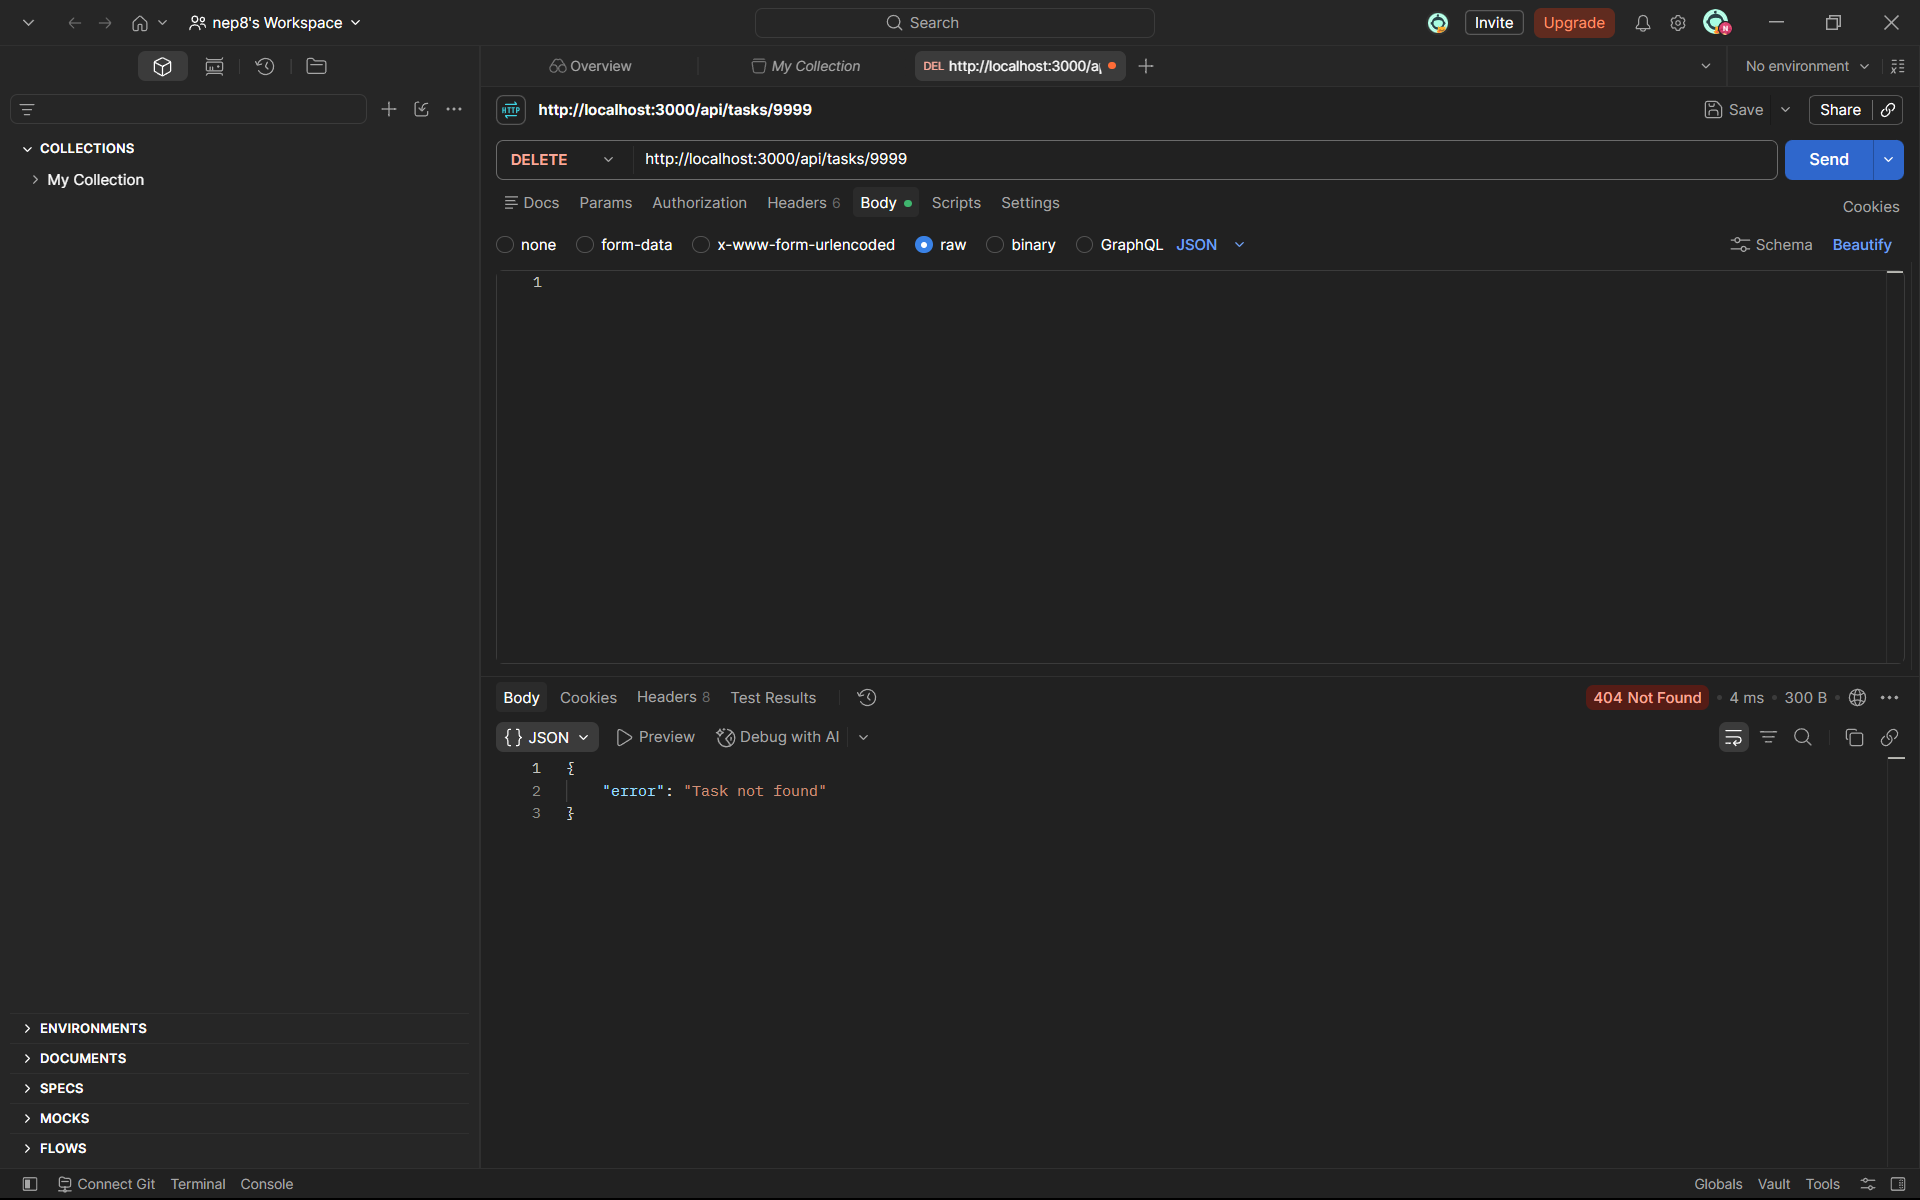
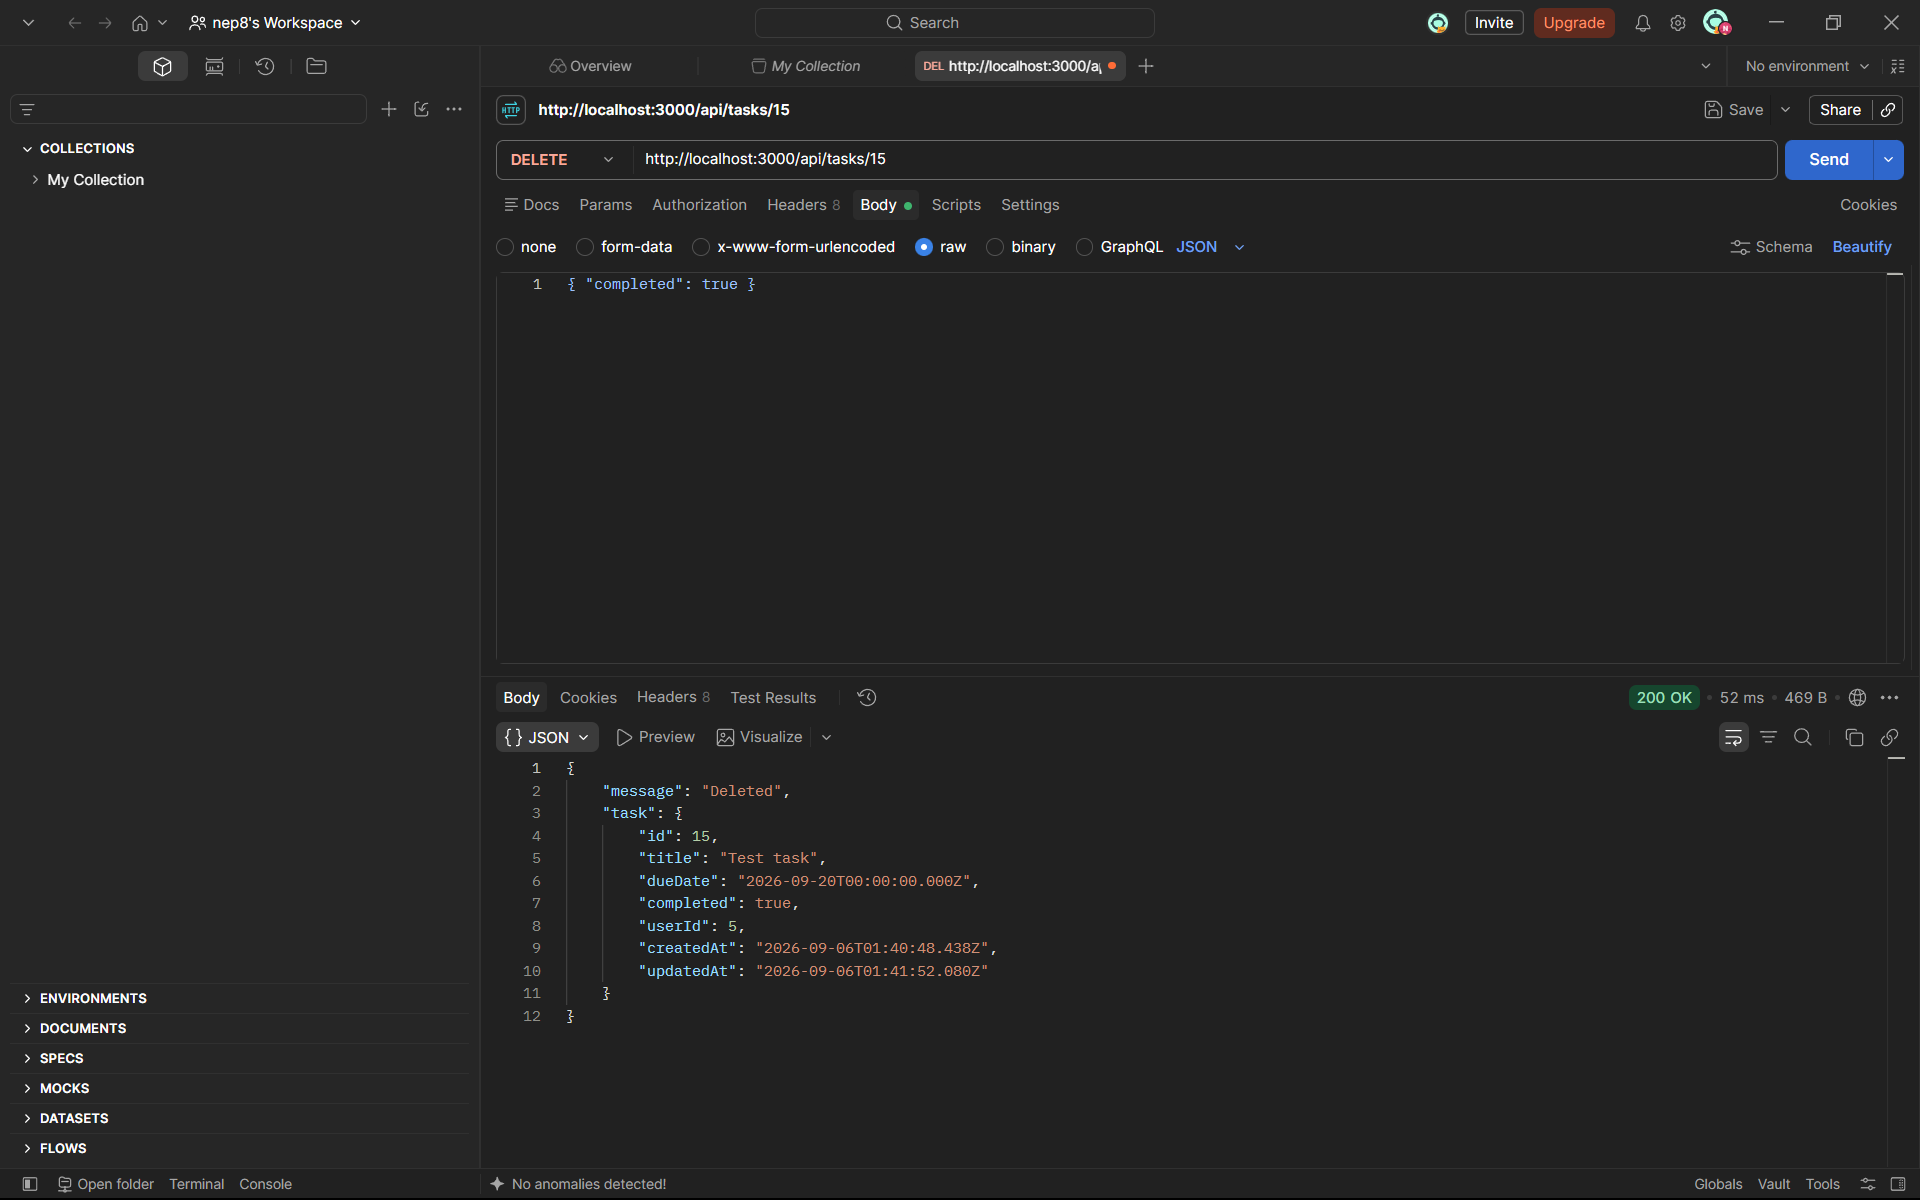
GT8: Replace in-memory data with PostgreSQL

diff --git a/src/routes/index.js b/src/routes/index.js
@@ -1,54 +1,48 @@
 import express from 'express';
-import { fetchSampleUsers } from '../api.js';
-import { tasks, validateTask, mergeTaskUpdate, createTask } from '../utils.js';
+import db from "../../models/index.cjs";
 
+const { User, Task } = db;
 const router = express.Router();
-let userCache = [];
-userCache = await fetchSampleUsers();
 
-router.get('/tasks', (req, res) => {
+router.get('/tasks', async (req, res) => {
+    const tasks = await Task.findAll({ include: User, order: [["id", "ASC"]] });
     res.json(tasks);
 });
 
-router.get("/tasks/:id", (req, res) => {
-    const task = tasks.find((t) => t.id === parseInt(req.params.id));
-    if (task) {
-        res.json(task);
-    } else {
-        res.status(404).json({ error: "Task not found" });
+router.get("/tasks/:id", async (req, res) => {
+    const task = await Task.findByPk(req.params.id, { include: User });
+    if (!task) {
+        return res.status(404).json({ error: "Task not found" });
     }
+    res.json(task);
 });
 
-router.post("/tasks", (req, res, next) => {
-    if (!validateTask(req.body)) {
-        const err = new Error("title and dueDate required");
-        err.status = 400;
-        return next(err);
-    }
-    const task = createTask(req.body);
-    tasks.push(task);
+router.post("/tasks", async (req, res) => {
+    const task = await Task.create(req.body);
     res.status(201).json(task);
 });
 
-router.put("/tasks/:id", (req, res) => {
-    const index = tasks.findIndex((t) => t.id === parseInt(req.params.id));
-    if (index === -1) {
+router.put("/tasks/:id", async (req, res) => {
+    const task = await Task.findByPk(req.params.id);
+    if (!task) {
         return res.status(404).json({ error: "Task not found" });
     }
-    tasks[index] = mergeTaskUpdate(tasks[index], req.body);
-    res.status(200).json(tasks[index]);
+    await task.update(req.body);
+    res.json(task);
 });
 
-router.delete("/tasks/:id", (req, res) => {
-    const index = tasks.findIndex((t) => t.id === parseInt(req.params.id));
-    if (index === -1) {
+router.delete("/tasks/:id", async (req, res) => {
+    const task = await Task.findByPk(req.params.id);
+    if (!task) {
         return res.status(404).json({ error: "Task not found" });
     }
-    const [removed] = tasks.splice(index, 1);
-    res.status(200).json({ message: "Deleted", task: removed });
+    await task.destroy();
+    res.json({ message: "Deleted", task });
 });
 
-router.get("/users", (req, res) => {
-    res.json(userCache);
+router.get("/users", async (req, res) => {
+    const users = await User.findAll();
+    res.json(users);
 });
+
 export default router;

diff --git a/src/server.js b/src/server.js
@@ -10,6 +10,9 @@ app.use(express.json());
 app.use("/api", router);
 
 app.use((err, req, res, next) => {
+    if (err.name === "SequelizeValidationError") {
+        return res.status(400).json({ error: err.errors.map((e) => e.message) });
+    }
     console.error(err.message);
     const status = err.status || 500;
     res.status(status).json({ error: err.message });
